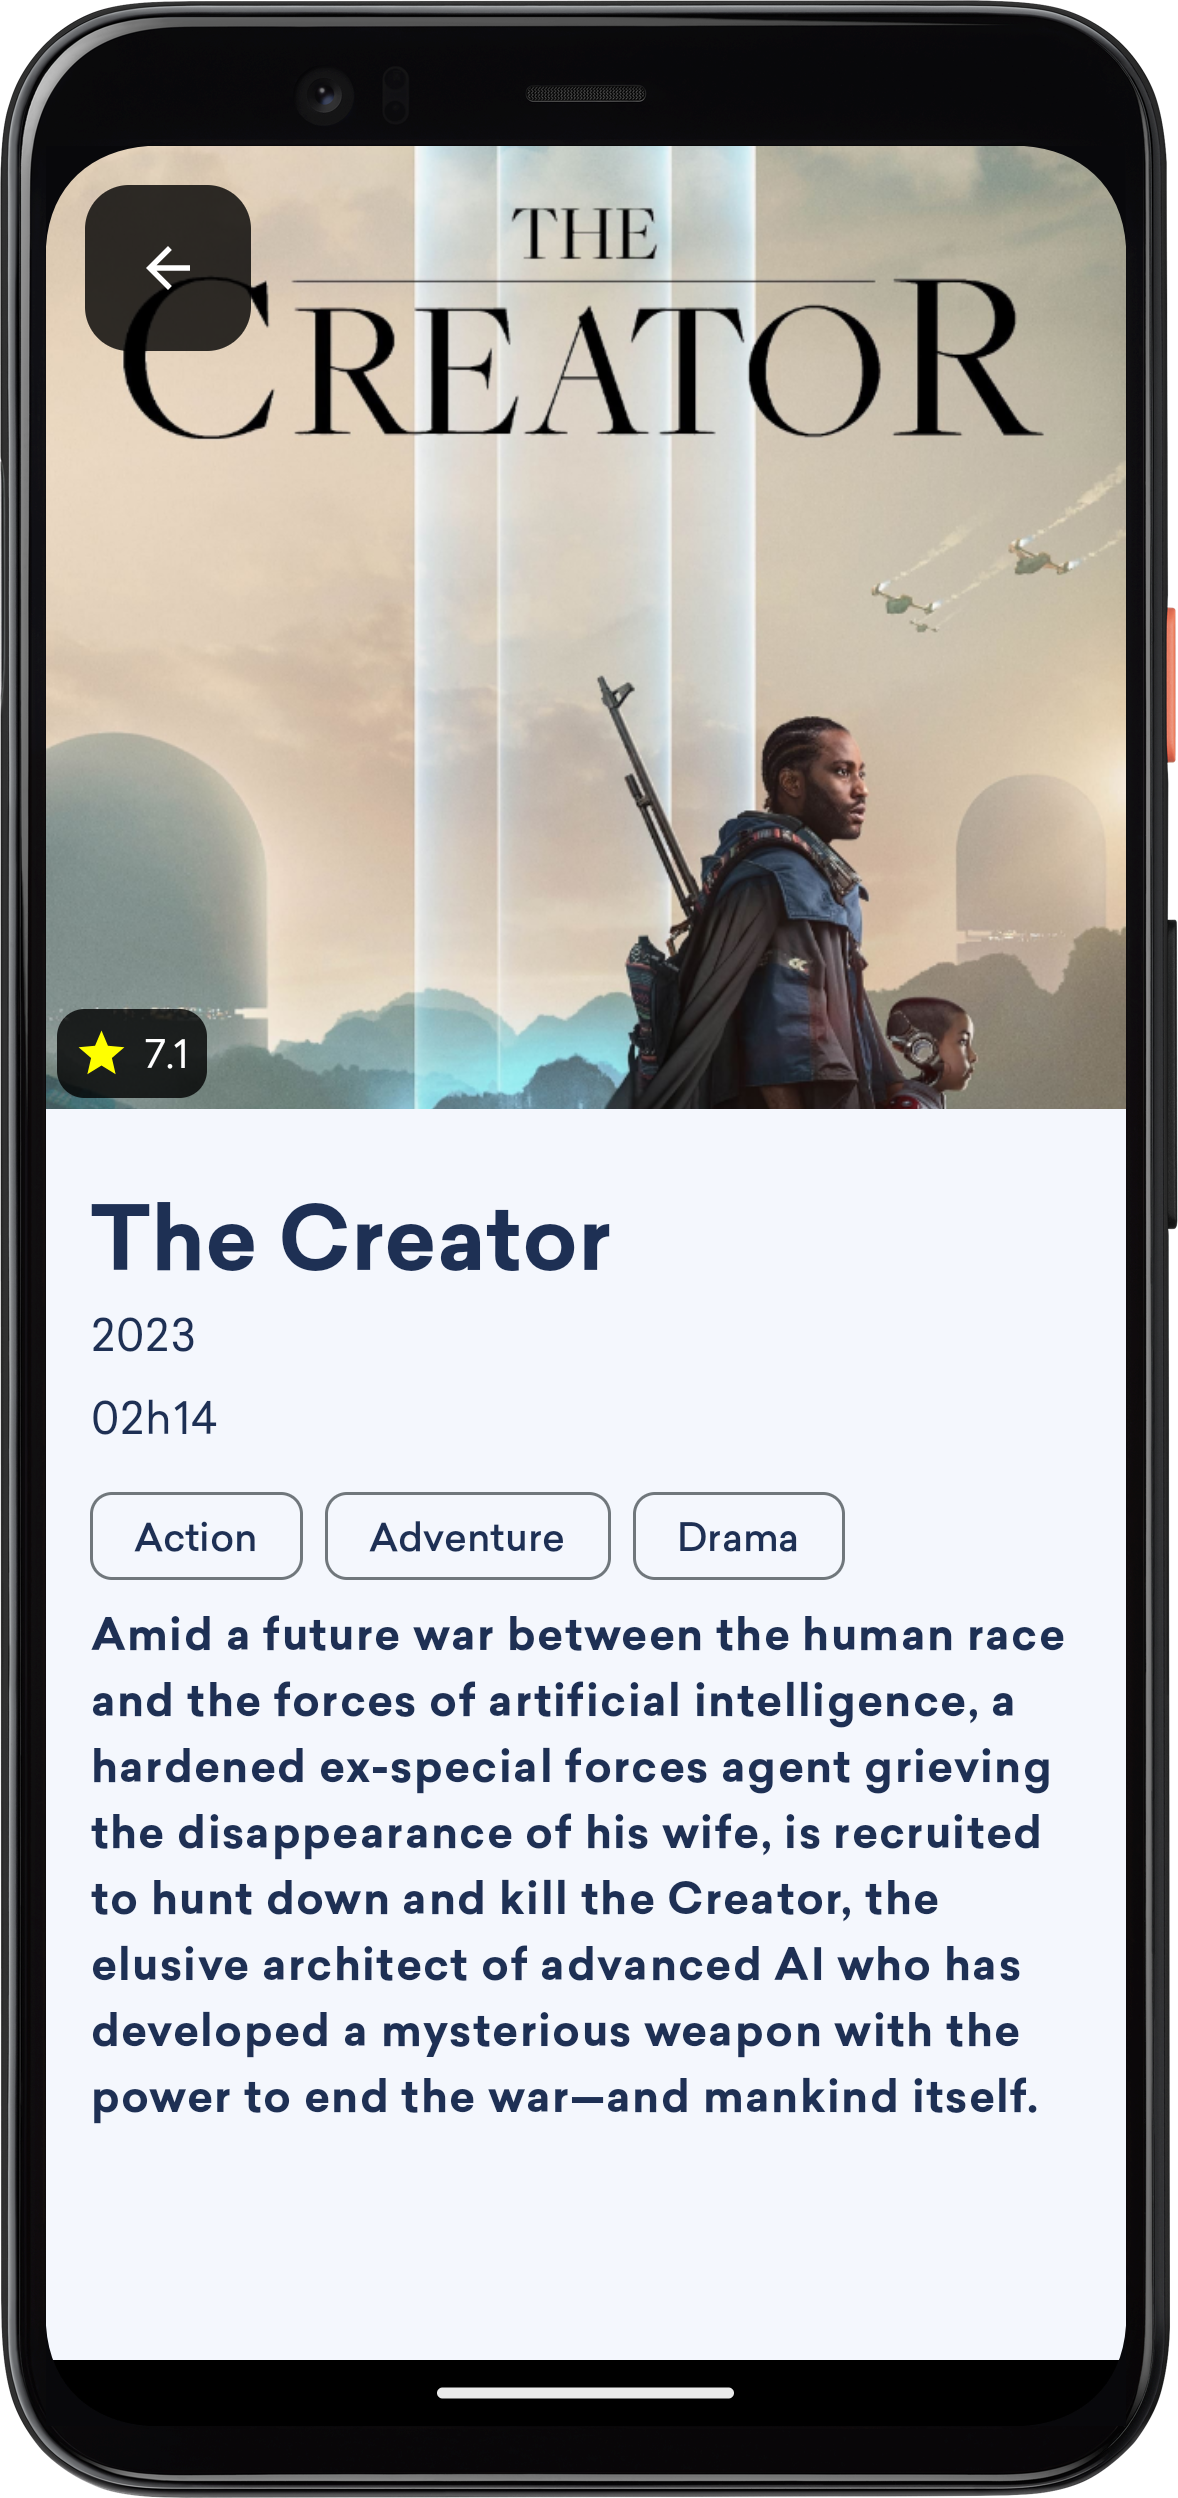
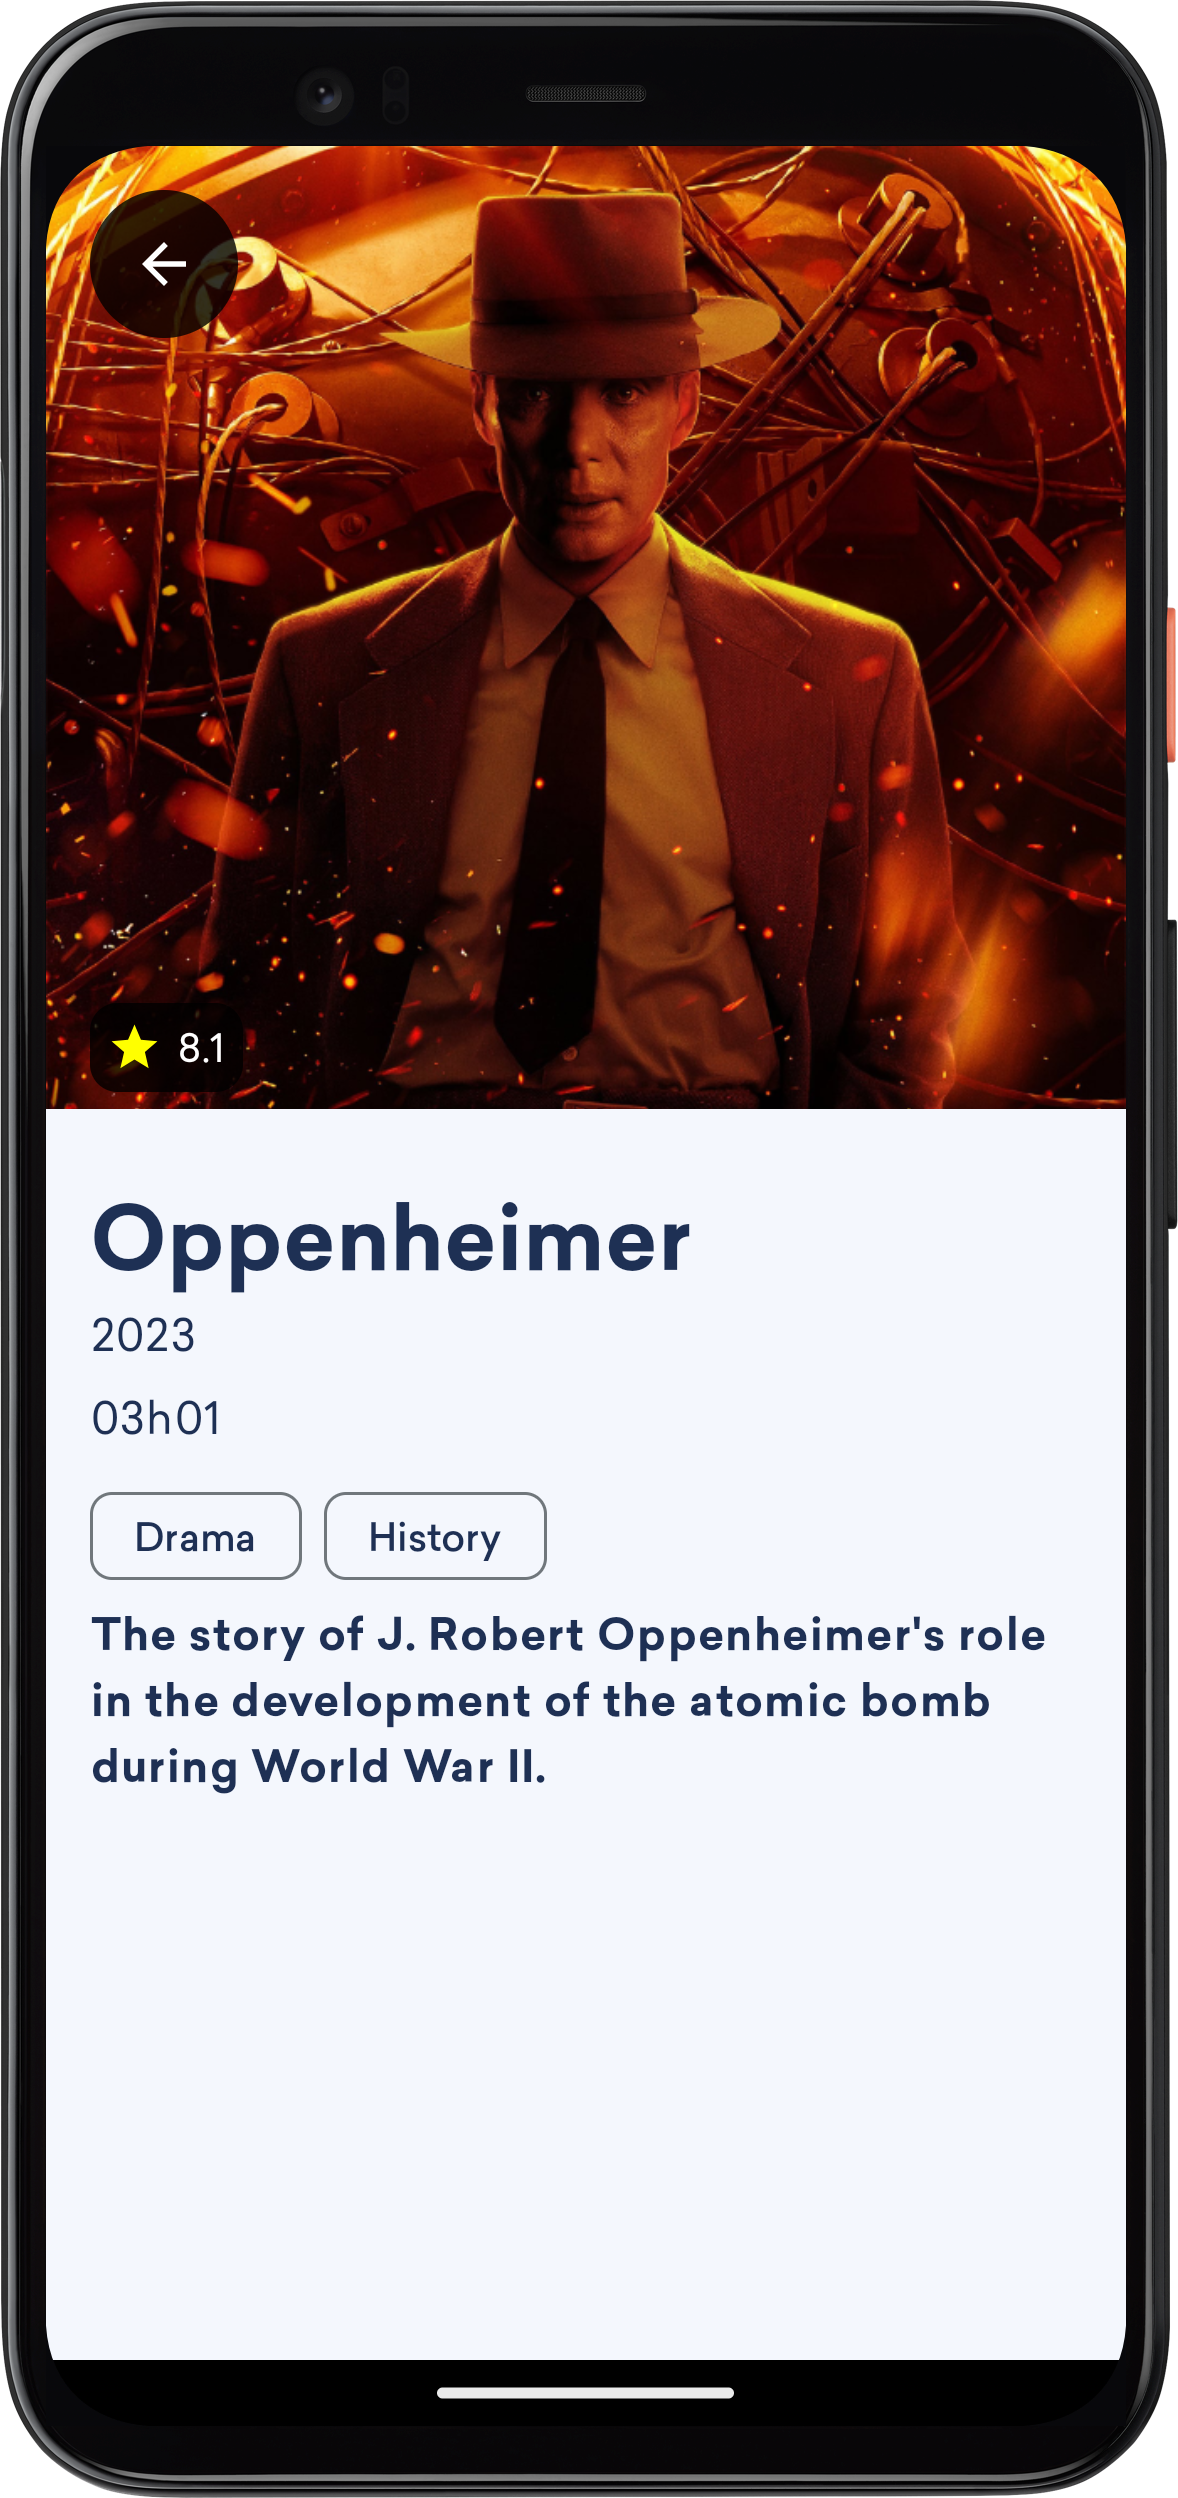
Fixed ui

diff --git a/app/src/main/java/com/hocel/moviedb/presentation/movieDetails/MovieDetails.kt b/app/src/main/java/com/hocel/moviedb/presentation/movieDetails/MovieDetails.kt
@@ -15,6 +15,7 @@ import androidx.compose.foundation.layout.size
 import androidx.compose.foundation.lazy.LazyRow
 import androidx.compose.foundation.lazy.items
 import androidx.compose.foundation.rememberScrollState
+import androidx.compose.foundation.shape.CircleShape
 import androidx.compose.foundation.shape.RoundedCornerShape
 import androidx.compose.foundation.verticalScroll
 import androidx.compose.material.icons.Icons
@@ -138,12 +139,12 @@ fun MovieDetails(
                             Box(
                                 Modifier
                                     .align(Alignment.TopStart)
-                                    .padding(14.dp)
+                                    .padding(16.dp)
                                     .background(
                                         Color.Black.copy(0.8f),
-                                        shape = RoundedCornerShape(16.dp)
+                                        shape = CircleShape
                                     )
-                                    .padding(6.dp)
+                                    .padding(3.dp)
                             ) {
                                 IconButton(onClick = {
                                     navController.navigateUp()
@@ -159,7 +160,7 @@ fun MovieDetails(
                             Box(
                                 Modifier
                                     .align(Alignment.BottomStart)
-                                    .padding(4.dp)
+                                    .padding(horizontal = 16.dp, vertical = 6.dp)
                                     .background(
                                         Color.Black.copy(0.8f),
                                         shape = RoundedCornerShape(10.dp)

diff --git a/app/src/main/java/com/hocel/moviedb/utils/AppInterceptor.kt b/app/src/main/java/com/hocel/moviedb/utils/AppInterceptor.kt
@@ -8,22 +8,16 @@ import javax.inject.Singleton
 
 @Singleton
 class AppInterceptor @Inject constructor() : Interceptor {
-    private var openaiAPIKey: String? = null
-    fun setOpenaiAPIKey(accessToken: String?) {
-        this.openaiAPIKey = accessToken
-    }
-
     override fun intercept(chain: Interceptor.Chain): Response {
         val request: Request = chain.request()
         val requestBuilder: Request.Builder = request.newBuilder()
-        requestBuilder.addHeader("Authorization", "Bearer $ap")
-//        openaiAPIKey?.let {
-//            requestBuilder.addHeader("Authorization", "Bearer $it")
-//        }
+        requestBuilder.addHeader("Authorization", "Bearer $accessToken")
 
         return chain.proceed(requestBuilder.build())
     }
 }
 
-private val ap =
-    "eyJhbGciOiJIUzI1NiJ9.eyJhdWQiOiJlYjhmMGIxYTEzNGRhMmM0OTE5ZDM2ZTIxOTg5YTczNiIsInN1YiI6IjY1NzU3ZTNkZTkzZTk1MjE5MDBjMGIyNiIsInNjb3BlcyI6WyJhcGlfcmVhZCJdLCJ2ZXJzaW9uIjoxfQ.Keroh744Llzb2CUVpP4cp5wEAg_SqZIkhW_jSdPnAeI"
+private val accessToken =
+    "eyJhbGciOiJIUzI1NiJ9.eyJhdWQiOiJlYjhmMGIxYTEzNGRhMmM0OTE5ZDM2ZTIxOTg5YTczNiIsInN1YiI6IjY1NzU" +
+            "3ZTNkZTkzZTk1MjE5MDBjMGIyNiIsInNjb3BlcyI6WyJhcGlfcmVhZCJdLCJ2ZXJzaW9uIjoxfQ.Keroh744Ll" +
+            "zb2CUVpP4cp5wEAg_SqZIkhW_jSdPnAeI"

diff --git a/app/src/main/java/com/hocel/moviedb/utils/utilFunctions.kt b/app/src/main/java/com/hocel/moviedb/utils/utilFunctions.kt
@@ -26,10 +26,12 @@ fun convertMinutes(minutes: Int): String {
 
 fun showStatusBar(context: Context) {
     val window = (context as? Activity)?.window
-    val windowInsetsController = window?.let { window.decorView?.let { it1 ->
-        WindowCompat.getInsetsController(it,
-            it1
-        )
-    } }
+    val windowInsetsController = window?.let {
+        window.decorView.let { it1 ->
+            WindowCompat.getInsetsController(it,
+                it1
+            )
+        }
+    }
     windowInsetsController?.show(WindowInsetsCompat.Type.statusBars())
 }

diff --git a/app/src/main/java/com/hocel/moviedb/presentation/trendingMovies/TrendingMoviesScreen.kt b/app/src/main/java/com/hocel/moviedb/presentation/trendingMovies/TrendingMoviesScreen.kt
@@ -32,7 +32,6 @@ import androidx.paging.LoadState
 import androidx.paging.compose.LazyPagingItems
 import androidx.paging.compose.collectAsLazyPagingItems
 import com.hocel.moviedb.data.models.trendingMovies.Result
-import com.hocel.moviedb.presentation.components.ItemMovieCard
 import com.hocel.moviedb.presentation.navigation.Screens
 import com.hocel.moviedb.ui.theme.BackgroundColor
 import com.hocel.moviedb.ui.theme.TextColor

diff --git a/app/src/main/java/com/hocel/moviedb/presentation/trendingMovies/MovieItem.kt b/app/src/main/java/com/hocel/moviedb/presentation/trendingMovies/MovieItem.kt
@@ -1,4 +1,4 @@
-package com.hocel.moviedb.presentation.components
+package com.hocel.moviedb.presentation.trendingMovies
 
 import androidx.compose.foundation.background
 import androidx.compose.foundation.clickable
